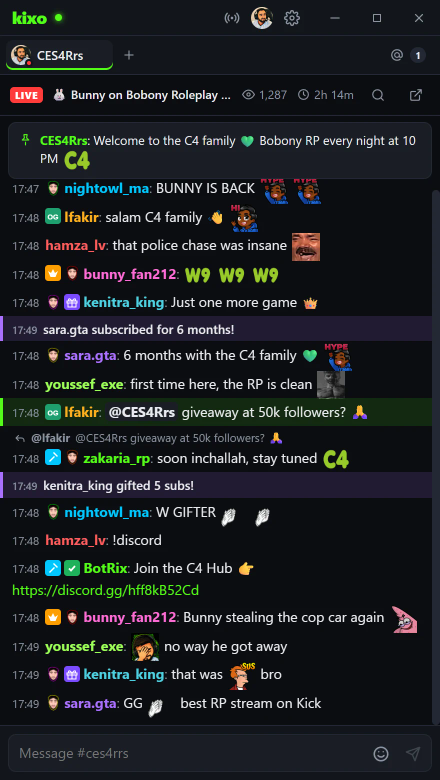
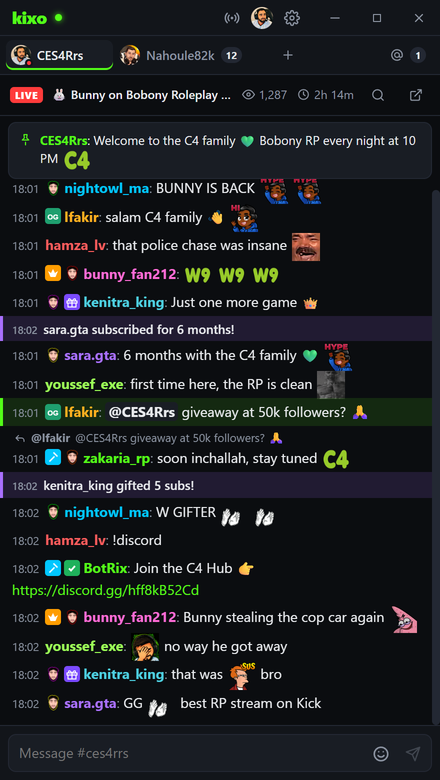
Feature CES4Rrs and Nahoule82k in README, site and welcome screen
- README/site hero screenshot now shows CES4Rrs + Nahoule82k tabs,
  with a Featured streamers line linking both channels
- Welcome-screen quick-join chips: ces4rrs, nahoule82k
- Regenerated OG image; test sample URL no longer uses a third party

diff --git a/src/renderer/src/components/Welcome.jsx b/src/renderer/src/components/Welcome.jsx
@@ -2,7 +2,7 @@ import { useState } from 'react'
 import { addChannel, login } from '../lib/chat.js'
 import { useStore } from '../lib/store.js'
 
-const POPULAR = ['xqc', 'adinross', 'amouranth', 'trainwreckstv', 'westcol']
+const FEATURED = ['ces4rrs', 'nahoule82k']
 
 export default function Welcome() {
   const [v, setV] = useState('')
@@ -26,7 +26,7 @@ export default function Welcome() {
         </button>
       </form>
       <div className="chips">
-        {POPULAR.map((p) => (
+        {FEATURED.map((p) => (
           <button key={p} className="chip" onClick={() => addChannel(p)}>
             {p}
           </button>

diff --git a/README.md b/README.md
@@ -15,7 +15,11 @@
   <a href="https://github.com/achrafthedev/kixo/releases/latest">Linux</a>
 </p>
 
-<p align="center"><img src="docs/screenshot.png" width="420" alt="Kixo screenshot" /></p>
+<p align="center"><img src="docs/screenshot.png" width="420" alt="Kixo running on CES4Rrs's and Nahoule82k's Kick chats" /></p>
+
+<p align="center">
+  Featured streamers: <a href="https://kick.com/ces4rrs"><b>CES4Rrs</b></a> · <a href="https://kick.com/nahoule82k"><b>Nahoule82k</b></a>
+</p>
 
 ## Features
 
